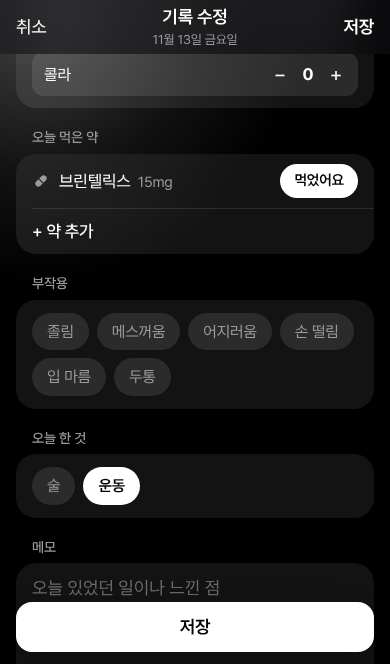
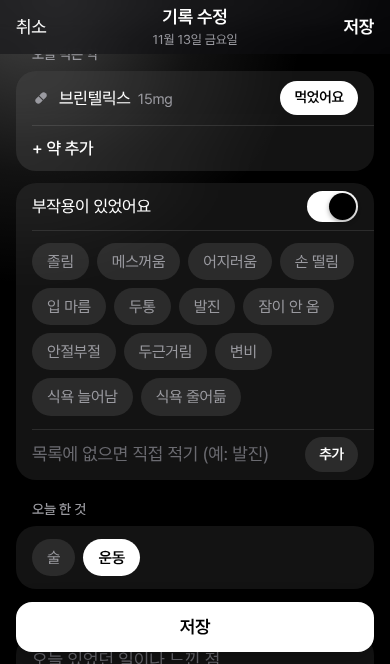
Tide: side effects live under the medication record, with more choices and free text
Side effects are no longer a separate always-visible item. On today they are a line in the medication card (names when present, a dim 'add' line otherwise); in the record form a 'I had side effects' switch under the medication list opens the chips. The list grew (rash, can't sleep, restless, palpitations, constipation, appetite up/down) and anything else can be typed in; typed names are kept in settings.fxCustom and stored on the entry as 'c:name'.

Claude-Session: https://claude.ai/code/session_01Du4KAy7crrN67i73oW7iBF

diff --git a/mood/js/views/record.js b/mood/js/views/record.js
@@ -33,6 +33,7 @@ export function newDraft(date) {
   d.drinks = d.drinks || {};
   d.signs = d.signs || {};
   d.fx = d.fx || {};
+  d.fxOpen = !!onlyOn(d.fx);
   d.tags = d.tags || {};
   d.meds = d.meds || [];
   return d;
@@ -55,7 +56,17 @@ export const slider = (id, icon, label, v, lo, hi) => `<div class="li sl" id="ro
 export const sw = (attr, on, label, icon) => `<button type="button" class="li sw" ${attr} aria-pressed="${!!on}"><span class="lk">${icon || ''}${label}</span><i></i></button>`;
 
 // 여러 개를 누를 수 있는 딱지들 (부작용, 술·운동). attr는 data-fx / data-tag
-const chips = (attr, list, on) => `<div class="li chips">${list.map(([k, label]) => `<button type="button" class="chip" data-${attr}="${k}" aria-pressed="${!!on[k]}">${label}</button>`).join('')}</div>`;
+const chips = (attr, list, on) => `<div class="li chips">${list.map(([k, label]) => `<button type="button" class="chip" data-${attr}="${esc(k)}" aria-pressed="${!!on[k]}">${esc(label)}</button>`).join('')}</div>`;
+
+// 부작용: 약 기록에 딸린 칸. 평소에는 "부작용이 있었어요" 스위치 한 줄만 있고, 켜면 딱지들과 직접 적는 칸이 펼쳐진다.
+// (오늘 화면에서 부작용 줄을 눌러 들어온 경우에는 처음부터 펼쳐져 있다: draft.fxAlways)
+export function fxHtml() {
+  const d = ui.draft, open = d.fxAlways || d.fxOpen;
+  const custom = [...new Set([...(db.settings.fxCustom || []), ...Object.keys(d.fx).filter((k) => k.startsWith('c:')).map((k) => k.slice(2))])];
+  return `${d.fxAlways ? '' : sw('data-act="fxToggle"', open, T('부작용이 있었어요'))}${open ? `${chips('fx', [...SIDE_EFFECTS, ...custom.map((name) => [`c:${name}`, name])], d.fx)}
+    <div class="li"><input type="text" id="fx-new" maxlength="20" placeholder="${T('목록에 없으면 직접 적기 (예: 발진)')}" autocomplete="off">
+      <button type="button" class="mini" data-act="fxAdd">${T('추가')}</button></div>` : ''}`;
+}
 
 export const medsHtml =() => doseRowsHtml(ui.draft.meds) + medAddHtml();
 export const signsHtml = () => SIGNS.map(([k, label]) => sw(`data-sign="${k}"`, ui.draft.signs[k], label)).join('');
@@ -98,6 +109,7 @@ export function openRecord(date, focus) {
   const d = ui.draft, isEdit = !!db.entries[date];
   const [title, show] = FOCUS[focus] ? FOCUS[focus]() : [isEdit ? T('기록 수정') : T('기록하기'), ALL];
   const only = !!FOCUS[focus];
+  d.fxAlways = focus === 'fx';
   if (focus === 'sleep') d.sleepSet = true;
 
   const sliders = {
@@ -125,7 +137,7 @@ export function openRecord(date, focus) {
     ...Object.fromEntries(SYMPTOMS.map((s) => [s[0], one(symRow(s))])),
     ...Object.fromEntries(Object.keys(bodyRow).map((k) => [k, one(bodyRow[k]())])),
     meds: group(T('오늘 먹은 약'), itemOn('meds') ? medsHtml() : '', 'meds'),
-    fx: group(T('부작용'), itemOn('fx') ? chips('fx', SIDE_EFFECTS, d.fx) : ''),
+    fx: itemOn('fx') ? `<section class="card list" id="fx">${fxHtml()}</section>` : '',
     tags: group(T('오늘 한 것'), itemOn('tags') ? chips('tag', TAGS, d.tags) : ''),
     note: group(T('메모'), itemOn('note') ? `<div class="li"><textarea id="f-note" rows="4" maxlength="1000" placeholder="${T('오늘 있었던 일이나 느낀 점')}">${esc(d.note || '')}</textarea></div>` : ''),
   };

diff --git a/mood/js/analysis.js b/mood/js/analysis.js
@@ -1,5 +1,5 @@
 // 초기 신호 · 인사이트 · 진료용 요약 계산 (전부 이 폰 안에서)
-import { SIDE_EFFECTS, SIGNS, TAGS, cafMg, drinkText } from './constants.js';
+import { SIGNS, TAGS, cafMg, drinkText, fxName, fxNames } from './constants.js';
 import { WD, addDays, durText, parse, today } from './dates.js';
 import { F, T } from './i18n.js';
 import { aided, medsFor, medsText } from './meds.js';
@@ -147,7 +147,7 @@ export function aiSummary() {
     const named = (label, list, on) => { const got = list.filter(([k]) => on && on[k]).map(([, l]) => l).join(', '); return got ? `${label}: ${got}` : ''; };
     lines.push([d, val('기분', e.mood), val('에너지', e.energy), val('자신감', e.conf), val('우울', e.dep, '/4'), val('불안', e.anx, '/4'), val('정신병적 증상', e.psy, '/4'), val('죽고 싶은 생각', e.si, '/4'),
       e.sleepMin != null ? `수면 ${Math.floor(e.sleepMin / 60)}시간 ${e.sleepMin % 60}분${aided(e) ? '(전날 안정제·수면제 복용)' : ''}` : '', e.tired ? '기상 시 피곤' : '', e.period ? '생리 중' : '',
-      e.appetite != null ? `식욕 ${e.appetite}` : '', e.drinks ? `카페인 약 ${cafMg(e.drinks)}mg(${drinkText(e.drinks) || '없음'})` : e.caffeine != null ? `카페인 ${e.caffeine}/10` : '', `약: ${meds || '없음'}`, named('부작용', SIDE_EFFECTS, e.fx), named('한 것', TAGS, e.tags), signs ? `체크: ${signs}` : '', e.note ? `메모: ${e.note}` : '']
+      e.appetite != null ? `식욕 ${e.appetite}` : '', e.drinks ? `카페인 약 ${cafMg(e.drinks)}mg(${drinkText(e.drinks) || '없음'})` : e.caffeine != null ? `카페인 ${e.caffeine}/10` : '', `약: ${meds || '없음'}`, fxNames(e.fx).length ? `부작용: ${fxNames(e.fx).join(', ')}` : '', named('한 것', TAGS, e.tags), signs ? `체크: ${signs}` : '', e.note ? `메모: ${e.note}` : '']
       .filter(Boolean).join(' | '));
   }
   return `아래는 내가 직접 적은 최근 4주 기분·수면·복약 기록이야 (기분·에너지·자신감·식욕·카페인은 0~10, 우울·불안·죽고 싶은 생각은 0~4).
@@ -175,7 +175,7 @@ export function summary(weeks, back = 0) {
     high: { dep: when('dep', 3), anx: when('anx', 3), psy: when('psy', 1), si: when('si', 1) },
     shortSleep: got.filter((e) => e.sleepMin != null && e.sleepMin < SHORT_SLEEP).map((e) => e.date),
     signs: SIGNS.map(([k, label]) => [label, got.filter((e) => e.signs && e.signs[k]).length]).filter(([, c]) => c),
-    fx: SIDE_EFFECTS.map(([k, label]) => [label, got.filter((e) => e.fx && e.fx[k]).length]).filter(([, c]) => c),
+    fx: [...new Set(got.flatMap((e) => Object.keys(e.fx || {}).filter((k) => e.fx[k])))].map((k) => [fxName(k), got.filter((e) => e.fx && e.fx[k]).length]),
     tags: TAGS.map(([k, label]) => [label, got.filter((e) => e.tags && e.tags[k]).length]).filter(([, c]) => c),
     meds: db.meds.map((m) => [m, dates.filter((d) => medsFor(d).some((x) => x.name === m.name && (x.dose || '') === (m.dose || ''))).length]),
     period: got.filter((e) => e.period).map((e) => e.date),

diff --git a/mood/tests/smoke.js b/mood/tests/smoke.js
@@ -244,10 +244,12 @@ function seed() {
   await page.click('[data-act=clinicWeeks][data-w=since]');
   check('"진료 후"는 지난 진료일이 들어가는 주 단위 (9일 전 → 2주)', (await text('#summary')).includes('/ 14일') && (await store()).clinic.log[0].kind === 'visit');
   await page.click('[data-tab=today]'); await page.click('.btn[data-act=record]');
-  await page.click('[data-fx=sleepy]'); await page.click('[data-tag=alcohol]');
+  await page.click('[data-act=fxToggle]'); await page.click('[data-fx=sleepy]');
+  await page.fill('#fx-new', '발진'); await page.press('#fx-new', 'Enter');
+  await page.click('[data-tag=alcohol]');
   await page.click('.savebar [data-act=save]');
   e = (await store()).entries[today];
-  check('부작용과 술·운동이 저장되고 오늘 화면에 보임', e.fx.sleepy === true && e.tags.alcohol === true && !e.tags.exercise && (await text('#app')).includes('졸림'));
+  check('부작용과 술·운동이 저장되고 오늘 화면에 보임', e.fx.sleepy === true && e.fx['c:발진'] === true && (await store()).settings.fxCustom[0] === '발진' && e.tags.alcohol === true && !e.tags.exercise && (await text('#app')).includes('졸림 · 발진'));
   await page.click('[data-tab=clinic]');
   check('진료 화면에 부작용과 술이 네모 줄로 나옴', (await text('#summary')).includes('부작용') && (await page.$$eval('.sum-rows', (x) => x.map((el) => el.textContent).join(' '))).includes('술'));
 
@@ -284,7 +286,7 @@ function seed() {
   await page.click('[data-tab=today]');
   await page.click('[data-act=settings]'); await page.click('[data-lang=en]'); await page.waitForLoadState('load'); await page.waitForSelector('h1');
   check('영어로 전환', (await text('h1')) === 'Today');
-  const left = (await page.evaluate(() => document.querySelector('#app').innerText)).split('\n').filter((s) => HANGUL.test(s) &&!s.includes('브린텔릭스'));
+  const left = (await page.evaluate(() => document.querySelector('#app').innerText)).split('\n').filter((s) => HANGUL.test(s) && !s.includes('브린텔릭스') && !s.includes('발진'));   // 사용자가 적은 약 이름·부작용은 한글 그대로
   check('영어 화면에 한글이 남지 않음', left.length === 0, left.join(' | '));
   await page.click('[data-act=settings]'); await page.click('[data-lang=ko]'); await page.waitForLoadState('load'); await page.waitForSelector('h1');
   await page.click('[data-act=settings]'); await page.click('[data-theme-pick=light]');

diff --git a/mood/js/views/today.js b/mood/js/views/today.js
@@ -1,6 +1,6 @@
 // 오늘 화면
 import { signals } from '../analysis.js';
-import { DISCLAIMER, HELPLINE, LEVELS, SIDE_EFFECTS, SIGNS, SI_CARE_FROM, SYMPTOMS, TAGS, cafMg, drinkText, nameOf } from '../constants.js';
+import { DISCLAIMER, HELPLINE, LEVELS, SIGNS, SI_CARE_FROM, SYMPTOMS, TAGS, cafMg, drinkText, fxNames, nameOf } from '../constants.js';
 import { WD, addDays, durText, longDate, parse, today, weekStart } from '../dates.js';
 import { app, esc } from '../dom.js';
 import { backupDue, daysSinceBackup } from '../files.js';
@@ -73,7 +73,11 @@ export const bars = (v) => `<span class="bars">${[1, 2, 3, 4].map((i) => `<i cla
 
 export function medCard(date) {
   if (!db.meds.length) return `<section class="card list"><button class="li add" data-act="medSetup">${IC.pill}&nbsp; ${T('먹는 약 등록하기')}</button></section>`;
-  return `<section class="card list">${doseRowsHtml(medsFor(date))}</section>`;
+  // 부작용은 약에 딸린 줄: 적은 것이 있으면 이름이 보이고, 없으면 흐린 "부작용 적기" 한 줄만 있다
+  const fx = fxNames((db.entries[date] || {}).fx);
+  const fxRow = !itemOn('fx') ? '' : fx.length ? li(T('부작용'), esc(fx.join(' · ')), 'fx')
+    : `<button class="li add dim" data-act="record" data-focus="fx">${T('+ 부작용 적기')}</button>`;
+  return `<section class="card list">${doseRowsHtml(medsFor(date))}${fxRow}</section>`;
 }
 
 export function tilesHtml(e) {
@@ -114,7 +118,6 @@ export function detailHtml(e) {
     row('appetite', `${IC.fork}${T('식욕')}`, e.appetite == null ? none : ten('appetite', e.appetite)),
     row('caffeine', `${IC.coffee}${T('카페인')}`, caffeine),
     extra && itemOn('meds') ? li(`${IC.pill}${T('약')}`, extra) : '',
-    row('fx', T('부작용'), named(SIDE_EFFECTS, e.fx) || none),
     row('tags', T('오늘 한 것'), named(TAGS, e.tags) || none),
     signs.length ? li(T('체크'), signs.map(esc).join('<br>')) : '',
     !itemOn('note') ? '' : e.note ? `<button class="li say note" data-act="record" data-focus="note">${esc(e.note)}</button>` : li(T('메모'), none, 'note'),

diff --git a/mood/js/main.js b/mood/js/main.js
@@ -13,7 +13,7 @@ import { db, save } from './store.js';
 import { applyFont, applyTheme, themeQuery } from './theme.js';
 import { clinicData, clinicWeeks, openLog, summaryText } from './views/clinic.js';
 import { notesListHtml, openNotes } from './views/notes.js';
-import { SLIDERS, cafHead, medsHtml, openRecord, saveEntry, sleepHtml, syncForm } from './views/record.js';
+import { SLIDERS, cafHead, fxHtml, medsHtml, openRecord, saveEntry, sleepHtml, syncForm } from './views/record.js';
 import { openSettings } from './views/settings.js';
 import { shiftAnchor, shiftTrend, trendRange } from './views/trend.js';
 
@@ -45,6 +45,21 @@ const actions = {
   ics: async () => {
     if (!hasAlarms()) { toast(T('알림 시간을 먼저 정해 주세요')); return; }
     await giveFile('tide-reminders.ics', makeIcs(), 'text/calendar');
+  },
+  // 기록 화면의 부작용 칸: 스위치로 펼치고 접기(접으면 고른 것도 비운다), 목록에 없는 것 직접 더하기
+  fxToggle: () => {
+    const d = ui.draft;
+    d.fxOpen = !d.fxOpen;
+    if (!d.fxOpen) d.fx = {};
+    $('#fx').innerHTML = fxHtml();
+  },
+  fxAdd: () => {
+    const name = $('#fx-new').value.trim();
+    if (!name) return;
+    const mine = db.settings.fxCustom || (db.settings.fxCustom = []);
+    if (!mine.includes(name)) { mine.push(name); save(); }
+    ui.draft.fx[`c:${name}`] = true;
+    $('#fx').innerHTML = fxHtml();
   },
   insightDemo: () => { ui.insightDemo = !ui.insightDemo; render(); },
   // 설정: 기록 항목 켜고 끄기 (꺼진 항목의 열쇠를 settings.off에 모아 둔다)
@@ -279,3 +294,8 @@ if ('serviceWorker' in navigator && location.protocol.startsWith('http')) {
     document.addEventListener('visibilitychange', () => { if (!document.hidden) reg.update().catch(() => {}); });
   }).catch(() => {});
 }
+
+// 부작용을 직접 적는 칸에서 엔터를 누르면 바로 더한다
+sheet.addEventListener('keydown', (ev) => {
+  if (ev.target.id === 'fx-new' && ev.key === 'Enter' && !ev.isComposing) { ev.preventDefault(); actions.fxAdd(); }
+});

diff --git a/mood/js/constants.js b/mood/js/constants.js
@@ -15,9 +15,15 @@ export const ITEMS = [
   ['fx', T('부작용')], ['tags', T('술 · 운동')], ['note', T('메모')],
 ];
 // 부작용: 그날 겪은 것을 눌러서 적는다 (entry.fx = { 열쇠: true })
+// 목록에 없는 것은 직접 적어 넣을 수 있다: 열쇠가 'c:이름'이고, 적어 넣은 이름들은 settings.fxCustom에 남아 다음에도 딱지로 뜬다.
 export const SIDE_EFFECTS = [
   ['sleepy', T('졸림')], ['nausea', T('메스꺼움')], ['dizzy', T('어지러움')], ['tremor', T('손 떨림')], ['drymouth', T('입 마름')], ['headache', T('두통')],
+  ['rash', T('발진')], ['insomnia', T('잠이 안 옴')], ['restless', T('안절부절')], ['palpitation', T('두근거림')], ['constipation', T('변비')],
+  ['appetiteUp', T('식욕 늘어남')], ['appetiteDown', T('식욕 줄어듦')],
 ];
+// 부작용 열쇠의 이름, 그리고 그날 적은 부작용 이름들
+export const fxName = (key) => (key.startsWith('c:') ? key.slice(2) : (SIDE_EFFECTS.find(([k]) => k === key) || [key, key])[1]);
+export const fxNames = (fx) => Object.keys(fx || {}).filter((k) => fx[k]).map(fxName);
 // 생활: 그날 있었던 것 (entry.tags = { 열쇠: true }). 인사이트에서 그런 날과 다른 날을 견준다.
 export const TAGS = [['alcohol', T('술')], ['exercise', T('운동')]];
 // 켜진 열쇠만 남긴다. 하나도 없으면 undefined (저장할 때 빈 칸을 남기지 않으려고)

diff --git a/mood/sw.js b/mood/sw.js
@@ -1,7 +1,7 @@
 // 오프라인에서도 열리도록 앱 파일을 저장해 둔다.
 // 인터넷이 될 때는 항상 최신 파일을 먼저 받아오고, 안 될 때만 저장본을 쓴다.
 // 앱 파일을 바꿔서 올릴 때마다 CACHE 숫자를 하나 올린다. js/ 에 파일을 더하면 JS 목록에도 더한다.
-const CACHE = 'tide-v66';
+const CACHE = 'tide-v67';
 const JS = ['main', 'config', 'i18n', 'constants', 'store', 'dates', 'theme', 'icons', 'dom', 'state', 'meds', 'analysis', 'sample', 'files', 'render', 'swipe', 'lock',
   'views/today', 'views/trend', 'views/insight', 'views/record', 'views/settings', 'views/clinic', 'views/notes'];
 const FILES = ['./', 'index.html', 'app.css', 'manifest.webmanifest',

diff --git a/mood/js/i18n.js b/mood/js/i18n.js
@@ -186,6 +186,16 @@ const DICT = {
   '손 떨림': 'Tremor',
   '입 마름': 'Dry mouth',
   '두통': 'Headache',
+  '발진': 'Rash',
+  '잠이 안 옴': 'Can’t sleep',
+  '안절부절': 'Restless',
+  '두근거림': 'Palpitations',
+  '변비': 'Constipation',
+  '식욕 늘어남': 'More appetite',
+  '식욕 줄어듦': 'Less appetite',
+  '부작용이 있었어요': 'I had side effects',
+  '목록에 없으면 직접 적기 (예: 발진)': 'Not listed? Type it here',
+  '+ 부작용 적기': '+ Add side effects',
   '술': 'Alcohol',
   '운동': 'Exercise',
   '진료 · 약 변경 기록': 'Visits · medication changes',

diff --git a/mood/js/config.js b/mood/js/config.js
@@ -2,4 +2,4 @@
 export const KEY = 'tide.v1', OLD_KEY = 'harugyeol.v1';
 
 // 설정 화면 맨 아래에 보이는 번호. 올릴 때마다 sw.js의 CACHE 숫자와 같이 하나 올린다.
-export const VERSION = 66;
+export const VERSION = 67;
